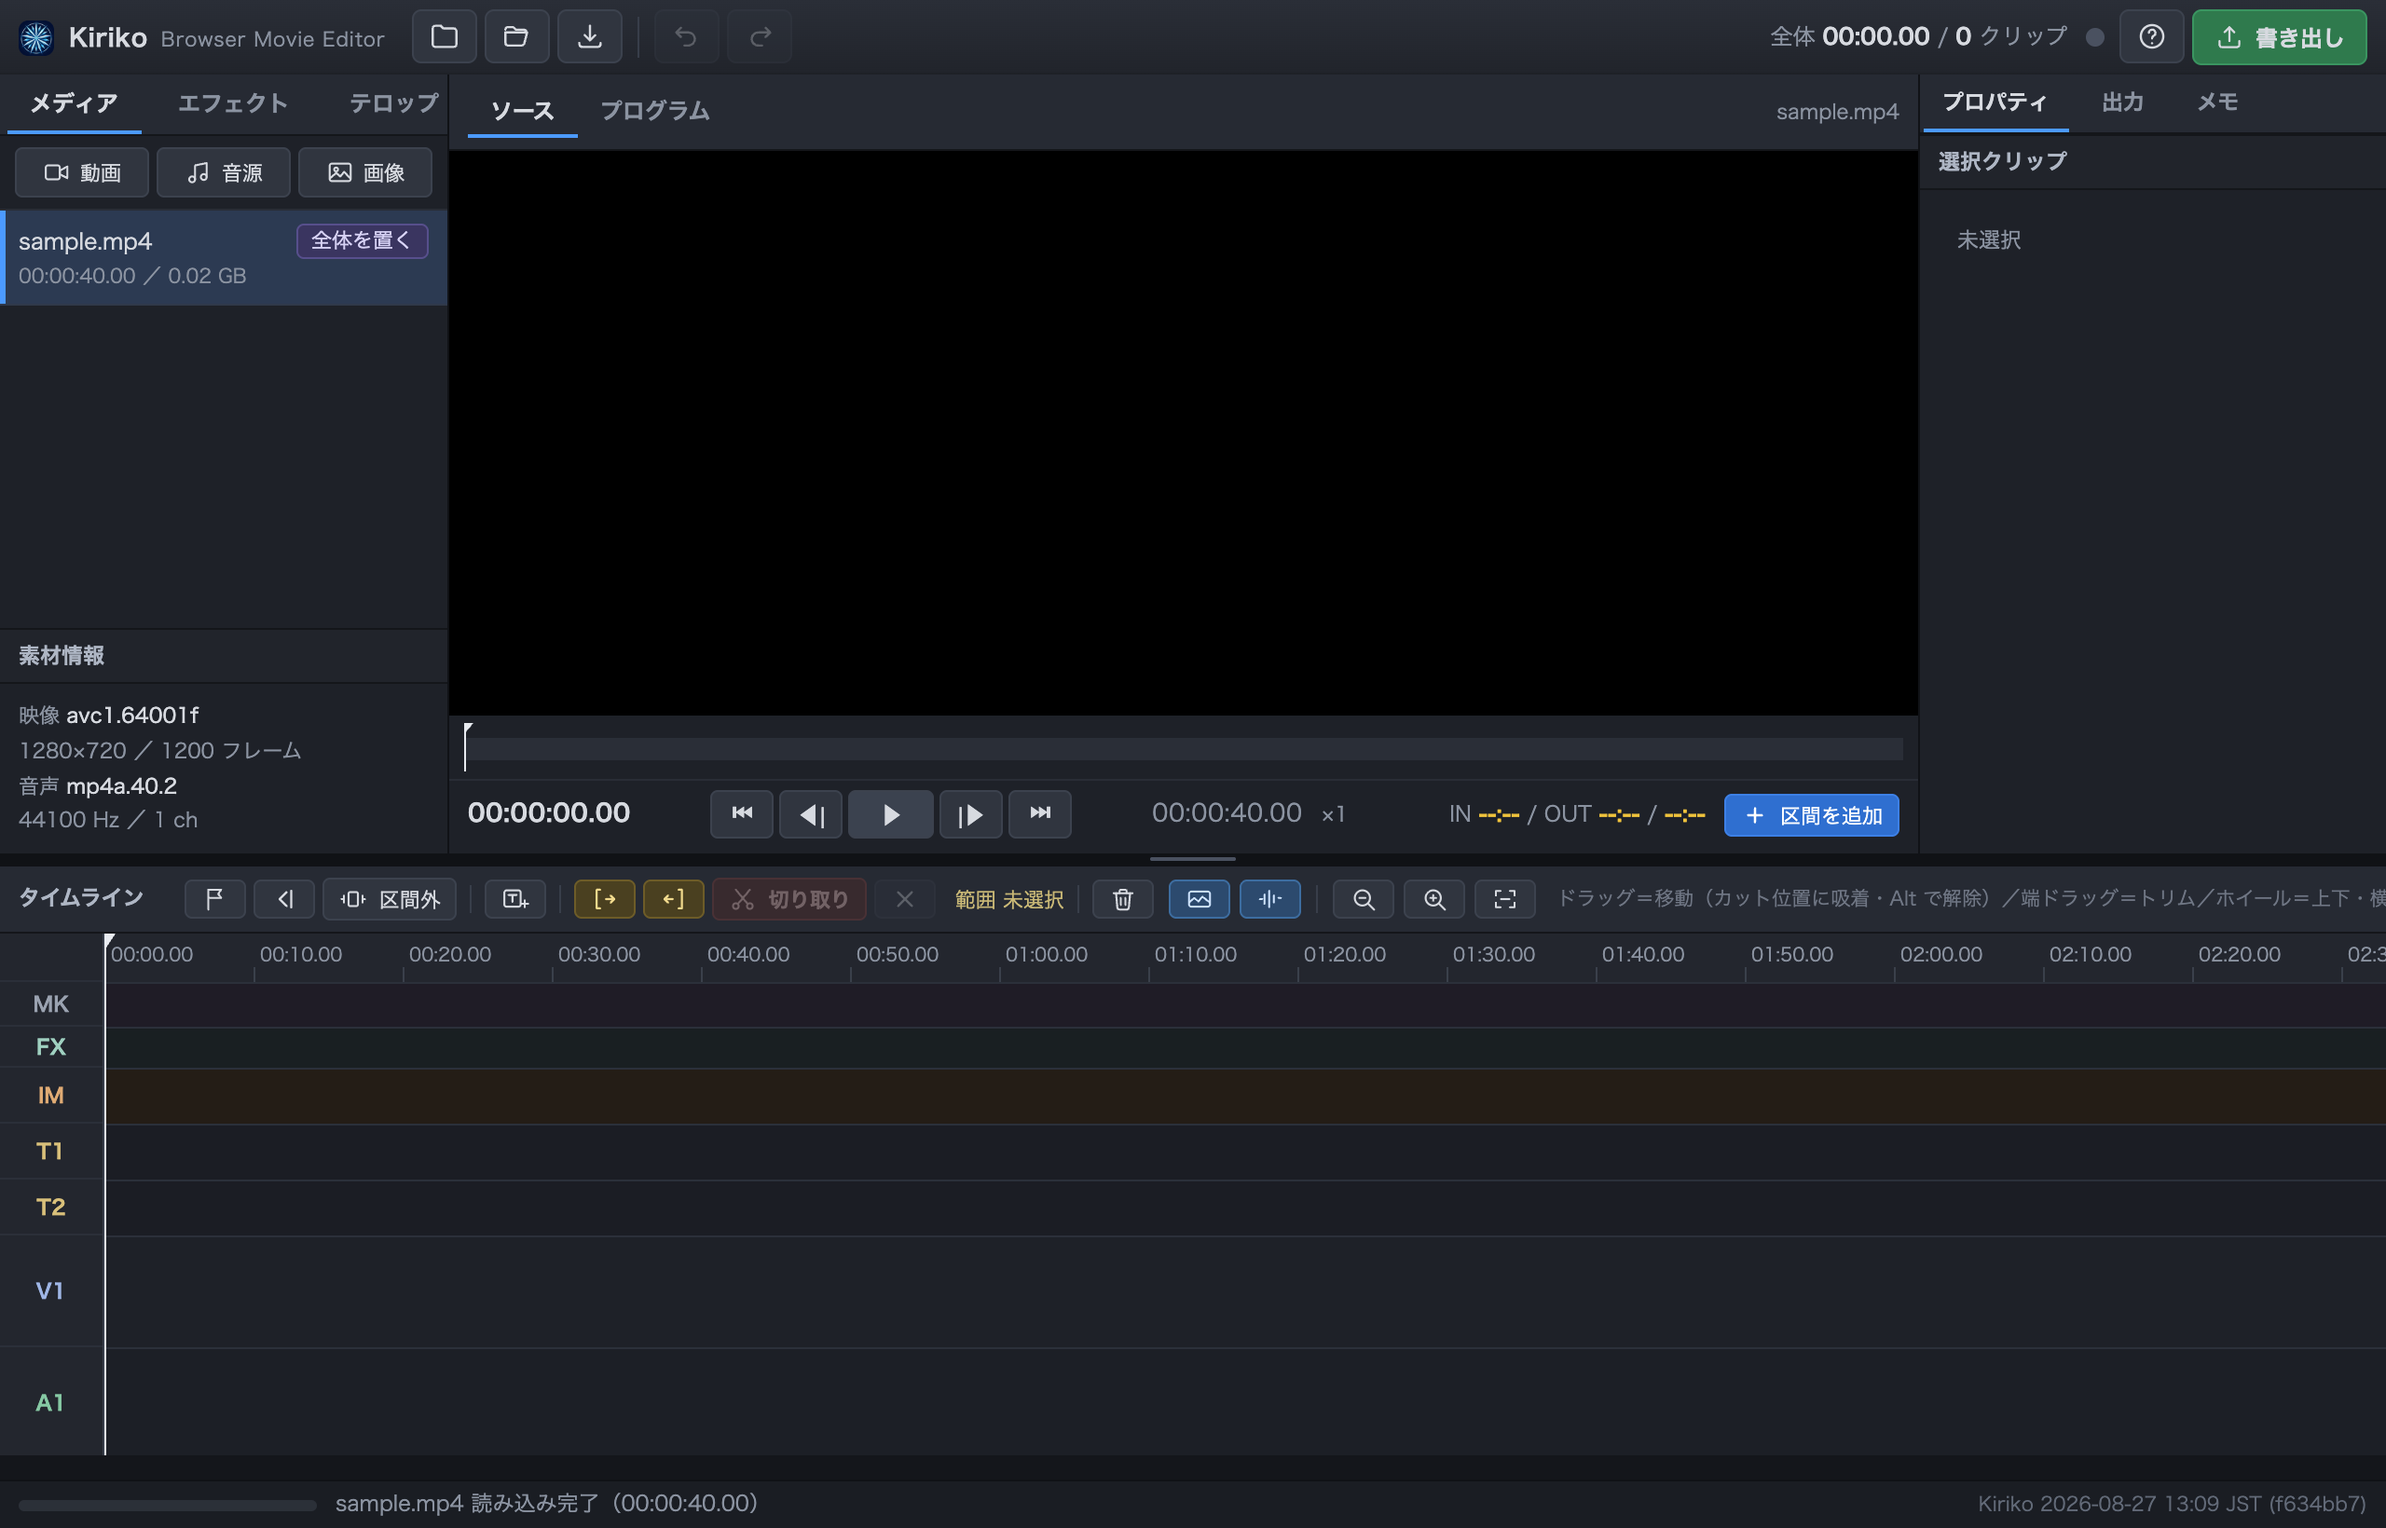
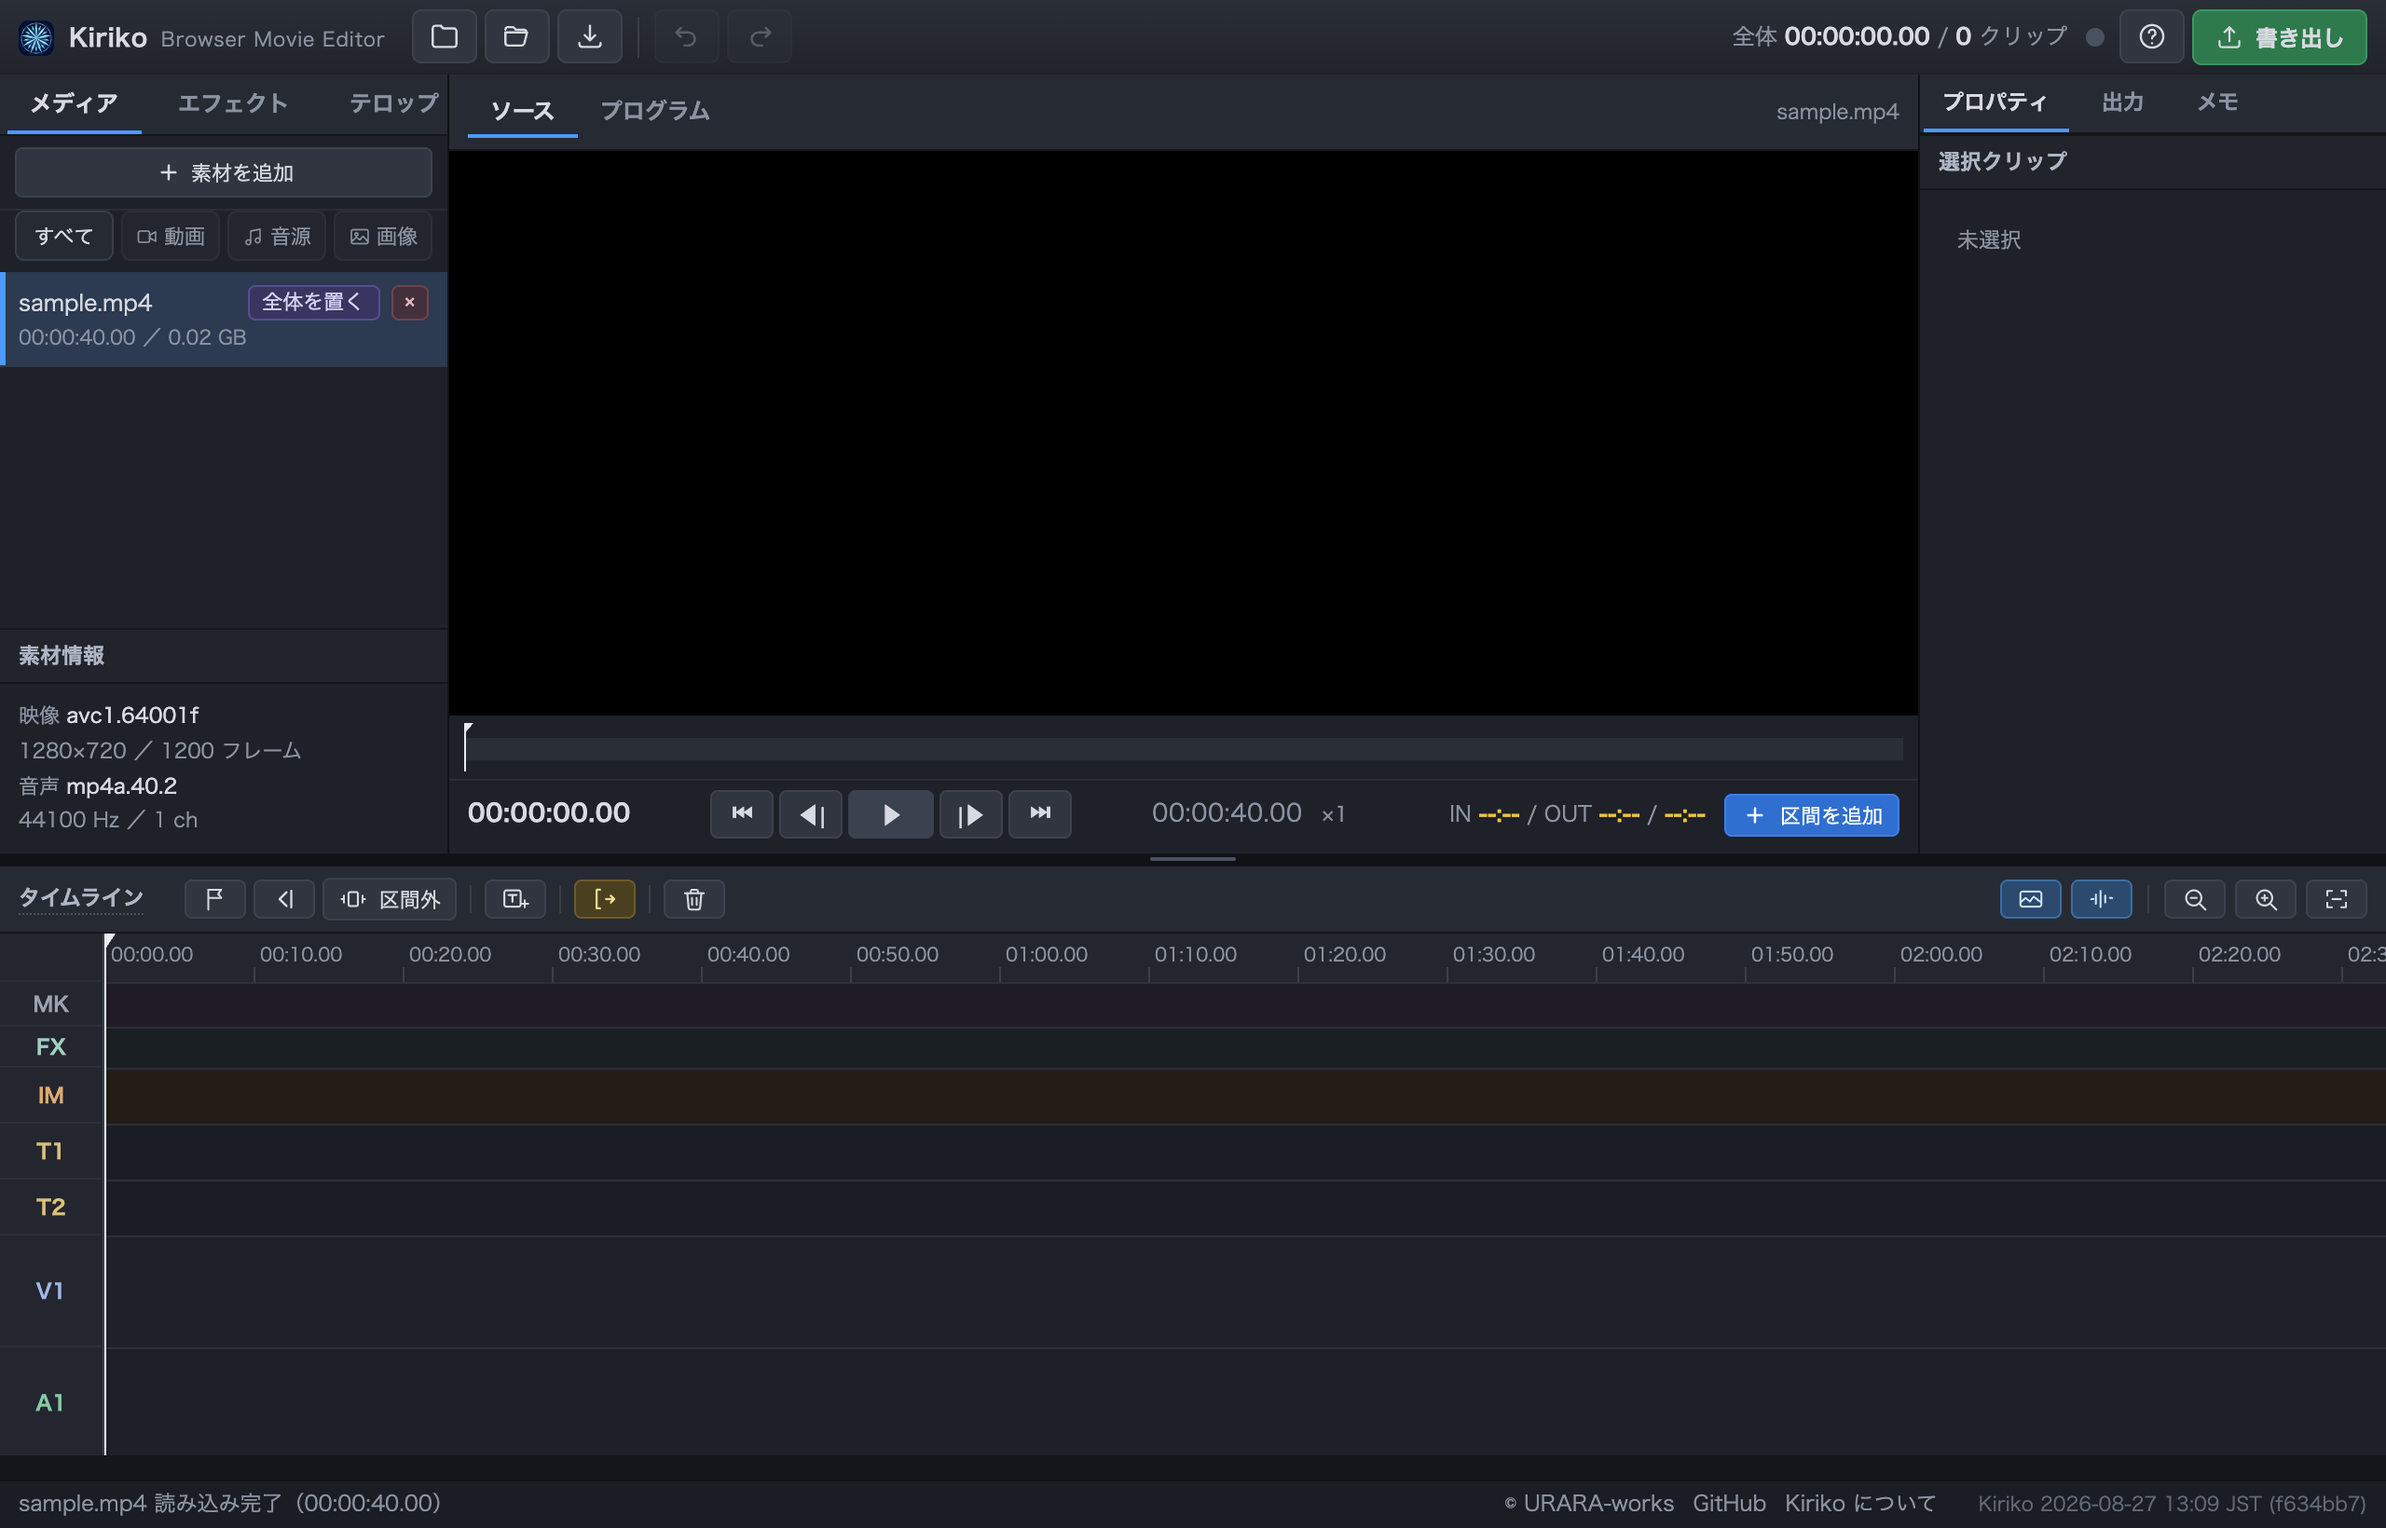
README を現状に合わせ、スクショを撮り直し。MCP の接続待ち表示が残る問題も修正
- README: テロップは並べ替え以外なら追従する旨に修正、トラック見出しの説明と
  シーク時の追従を追記
- スクショ 9 枚を撮り直し（素材を追加の 1 本化・範囲まわりの段階表示・
  フッターの表記が反映された）
- MCP: 起動時の自動接続で「MCP サーバーに接続します…」を出しっぱなしにしていた。
  サーバーを立てていないと消えないので、待機中はランプの色だけにして、
  繋がった時に知らせるようにした

diff --git a/js/main.js b/js/main.js
@@ -4559,6 +4559,11 @@ const bridge = new Bridge(
   (state) => {
     const el = $('mcpDot');
     if (!el) return;
+    // 繋がった時だけ知らせる。待っている間はランプの色で足りるので、
+    // ステータス行を占領しない（サーバーを立てていない人には出っぱなしになる）
+    if (state === 'on' && el.classList.contains('mcp-dot') && !el.classList.contains('on')) {
+      status('MCP つながりました');
+    }
     el.className = `mcp-dot ${state}`;
     el.title = {
       on: 'MCP つながっています（クリックで切断）',
@@ -4581,10 +4586,8 @@ $('mcpDot').onclick = () => {
   const q = new URLSearchParams(location.search);
   const port = q.get('bridgePort');
   if (port) bridge.url = `ws://127.0.0.1:${port}`;
-  if (q.get('bridge') === '1' || localStorage.getItem('kiriko.autoBridge') === '1') {
-    bridge.connect();
-    status('MCP サーバーに接続します…');
-  }
+  // 自動接続はランプの色だけで知らせる（繋がったらステータスに出る）
+  if (q.get('bridge') === '1' || localStorage.getItem('kiriko.autoBridge') === '1') bridge.connect();
 })();
 
 // Phase 4（AI 連携 / MCP）に向けた操作フック。
